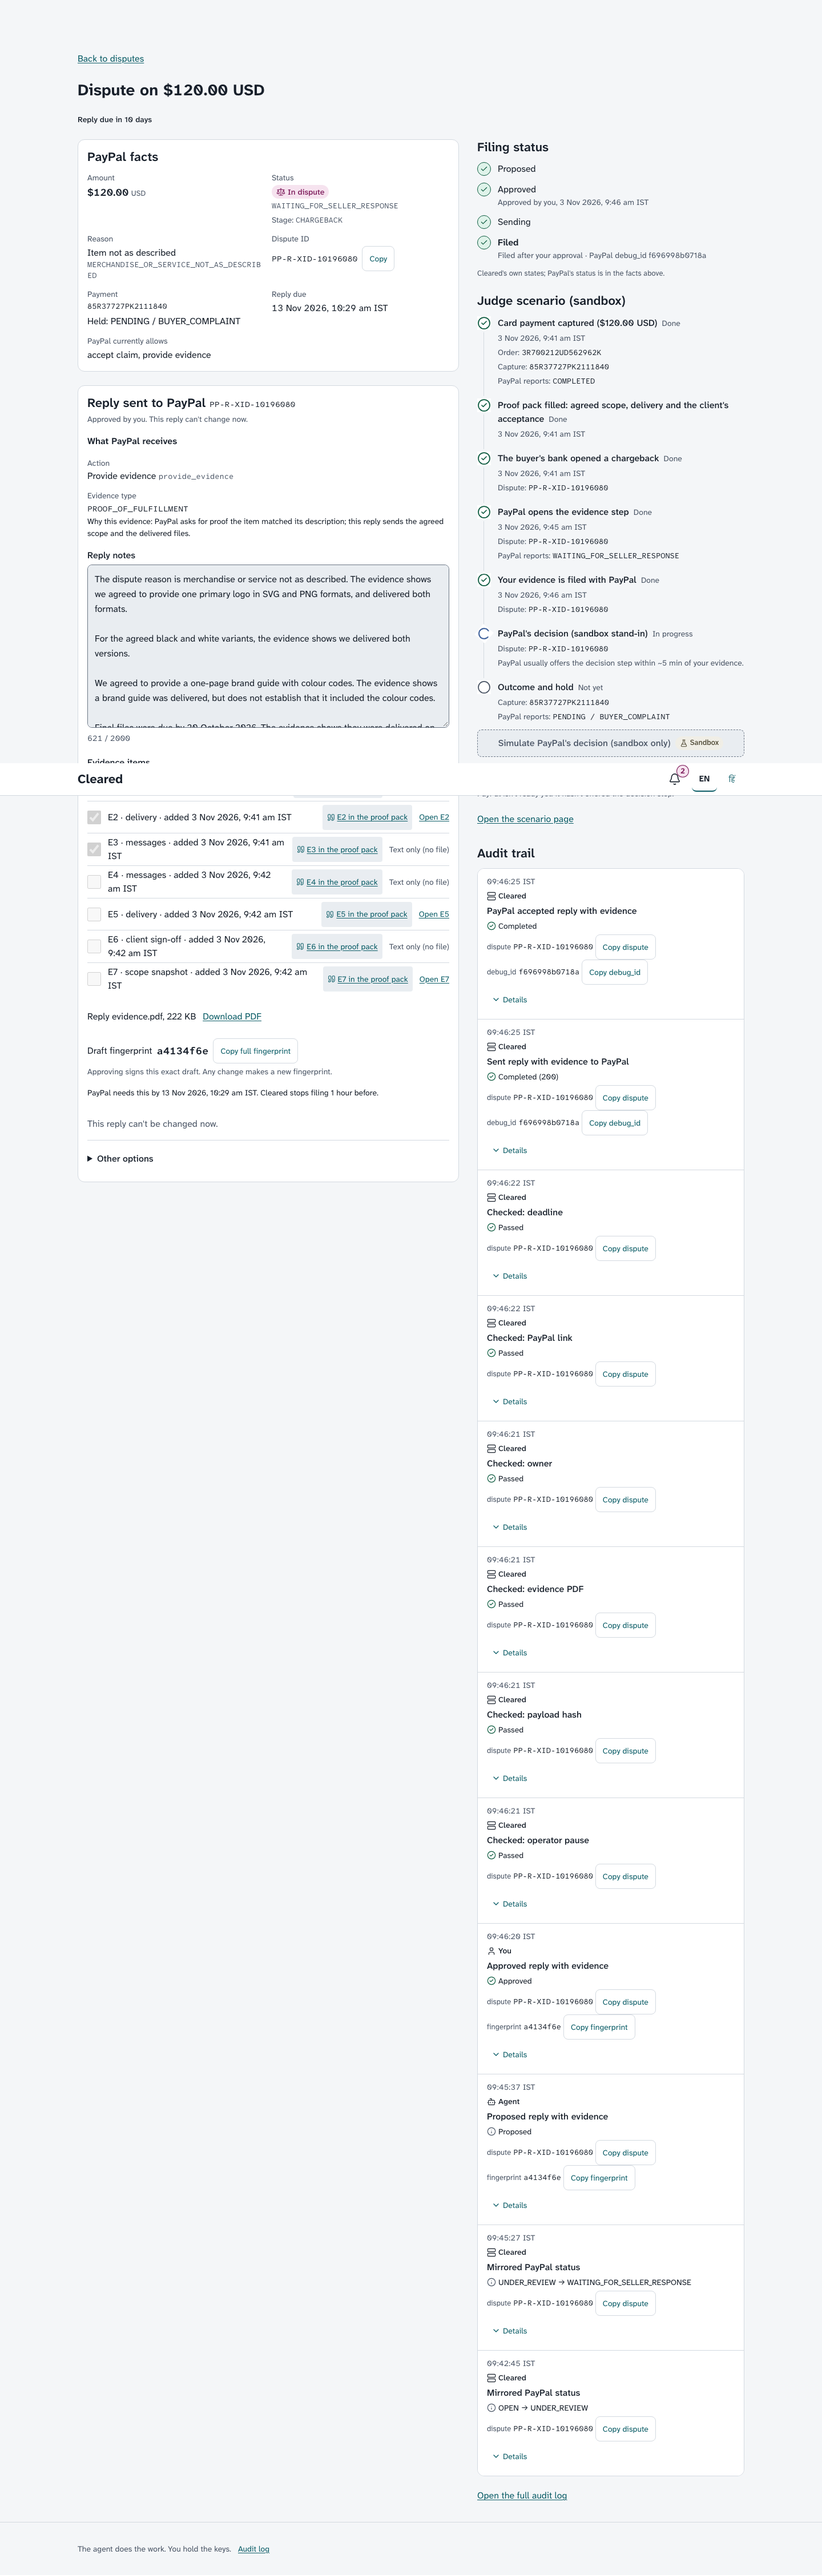
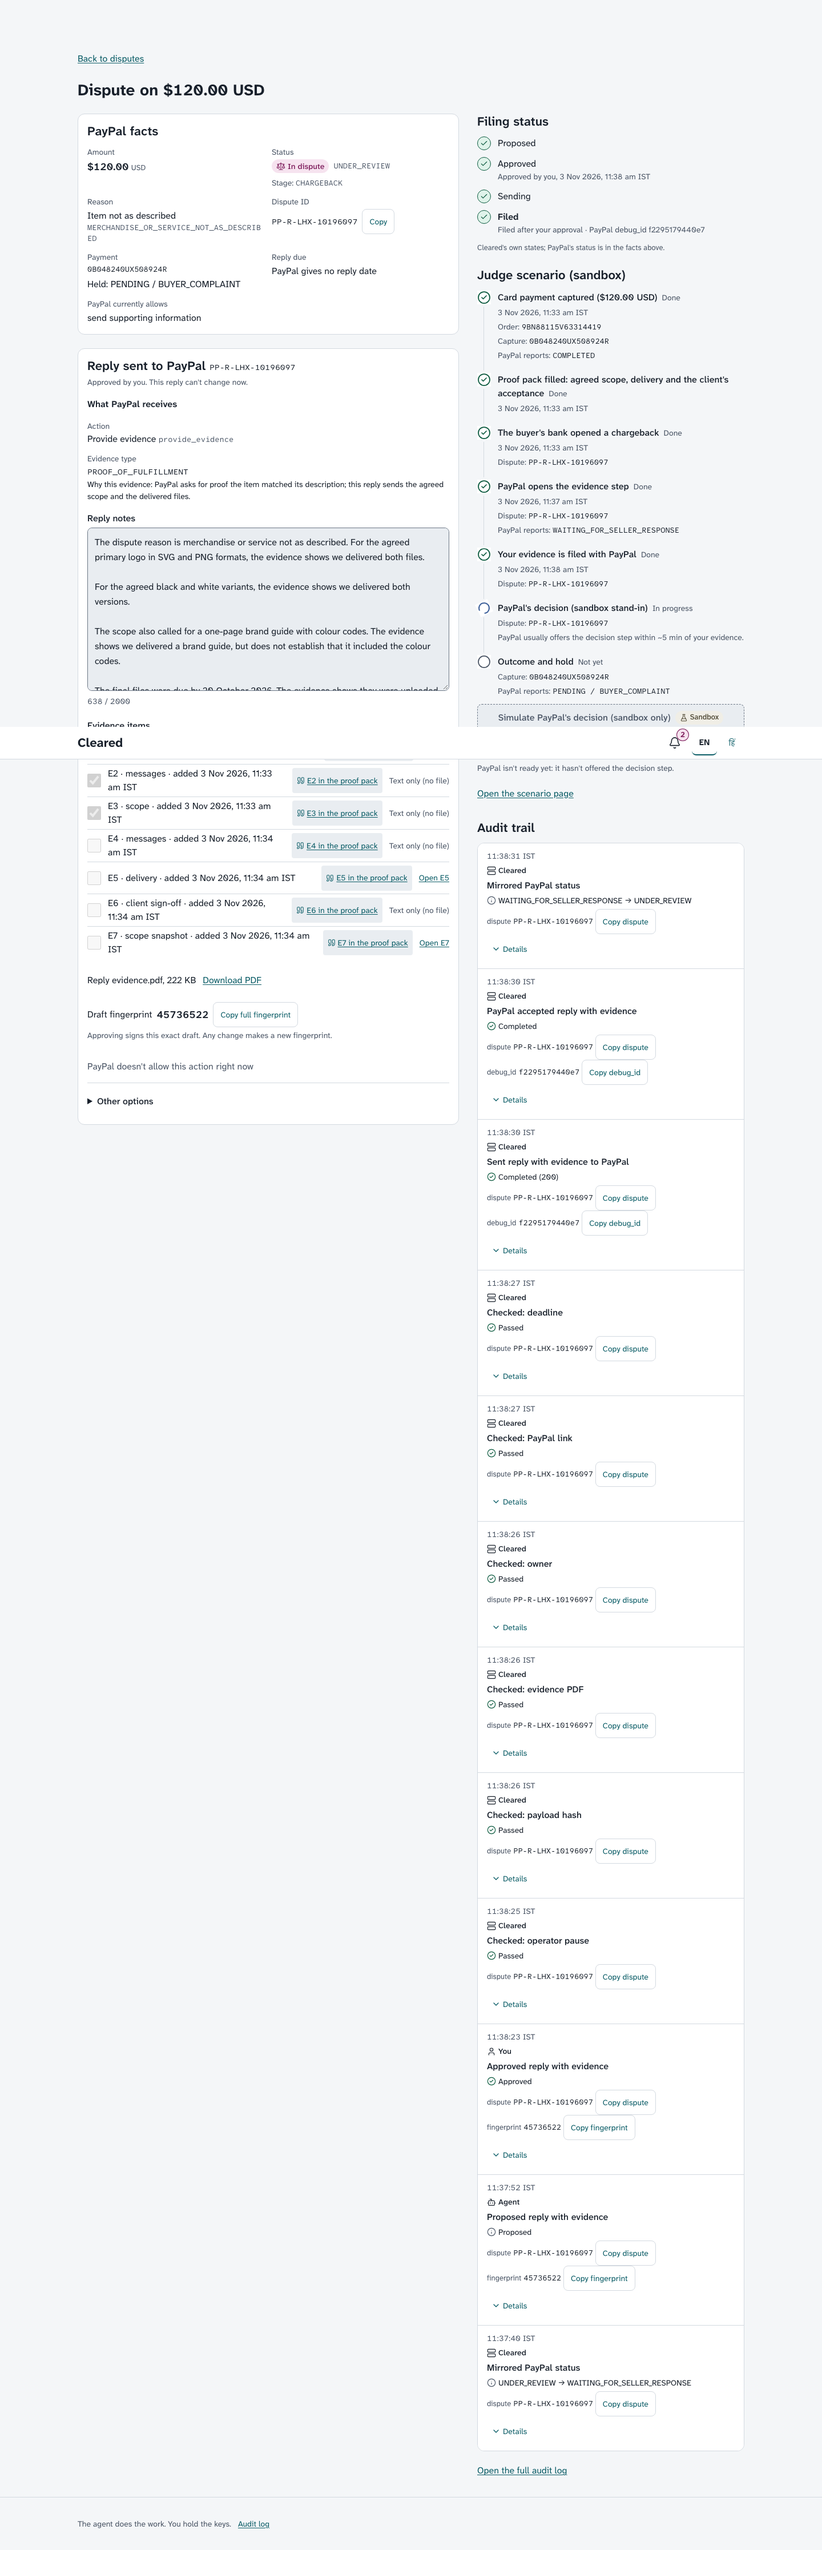
docs(evidence): M3-11 run 2 on c5afc1c, all scenes, pool staging and spend (M3-11)

diff --git a/docs/evidence/m3-storyboard-dry-run.md b/docs/evidence/m3-storyboard-dry-run.md
@@ -1,118 +1,175 @@
 # M3-11 · Storyboard dry run on production: evidence
 
-Run 2026-11-03 04:11–04:28 UTC against **production** (`https://cleared-web-gd1b.onrender.com`, Render,
-Oregon) with `apps/web/e2e/storyboard.spec.ts` (deployed mode: no local server, no stub, no credential in the
-test). Production at run time: **web on `1463670`**, **worker on `f93f88d`**. The web build of `f93f88d`
-(#127, cash calendar) fails on Render (see scene 4). Every PayPal call ran on the **PayPal sandbox**. All
-personal data is synthetic: the seller is an anonymous "Try as demo seller" workspace, the client is the
-scenario's "Northwind Tea Co." and the designer is "Meera Studio" (`fixtures/scenario/`). The ids below are
-sandbox ids. No secret values appear here.
+Two live runs of `apps/web/e2e/storyboard.spec.ts` against **production**
+(`https://cleared-web-gd1b.onrender.com`, Render, Oregon), in deployed mode: no local server, no stub,
+no credential in the test.
+- **Run 1** was on 2026-11-03 at 04:11–04:28 UTC, with web on `1463670` and worker on `f93f88d`.
+- **Run 2** was at 06:03–06:18 UTC, with web and worker both on **`c5afc1c`**. That build includes #129 (the
+  web build fix) and #130 (the seller's goods/service declaration, option A).
 
-| | |
+Run 2 is the run of record below. Run 1 is summarised at the end.
+
+Every PayPal call ran on the **PayPal sandbox**. All personal data is synthetic:
+- the seller is an anonymous "Try as demo seller" workspace;
+- the client is "Northwind Tea Co." and the designer is "Meera Studio", both from the scenario's
+  `fixtures/scenario/`;
+- the review-hold payment was approved by the sandbox buyer account (P-52).
+
+The ids are sandbox ids. No secret values appear here.
+
+## Staging (run 2)
+
+| Step | When (UTC) | Result |
+|---|---|---|
+| Video-pool order created on production (`render ssh` on cleared-worker: `node apps/worker/src/cli/pool.ts create --count 1 --purpose video`). A read-only check beforehand found 0 pool rows | 05:52:11 | order `6AE7350594037204V`, 64.00 USD; PayPal create-order 200, `debug_id f282016ddfb16` |
+| The owner approved the order as the sandbox buyer (P-52) | before 05:55 | |
+| `pool.ts capture` | 05:55:13 | capture POST **201**, `debug_id f230955f1c12e`; capture `63R756703X9265145` **`PENDING / PENDING_REVIEW`** (re-read by GET 200, `debug_id f317634bace8c`); row `held` |
+| `pool.ts status` | 05:55 | `video held 6AE7350594037204V 63R756703X9265145 PENDING/PENDING_REVIEW`, expected release `~2026-11-04T05:55Z` (estimated, rule `payment_review`) |
+| Web and worker live on `c5afc1c`; `/readyz` `{"ok":true,…}` | 06:03 | |
+| Recording workspace created by the spec ("Try as demo seller") | 06:03:35 | `7d178710-e78a-4de8-b437-486e2b346e58` |
+| `pool.ts assign --workspace 7d178710…` | ~06:04 | "assigned capture 63R756703X9265145 (order 6AE7350594037204V)" |
+| Chargeback (M2-10 scenario, on the $120 card capture) | 06:04 | staged live in the run, not 20 min ahead |
+
+| Run 2 ids | |
 |---|---|
-| workspace (demo) | `7228ebdd-647d-45bb-ac6b-e9b46011f463` |
-| scenario run | `efa4a827-9550-40b3-8a5b-e0a4305eeebd` |
-| order | `3R700212UD562962K` |
-| capture ($120.00 USD, card) | `85R37727PK2111840` |
-| payment | `eb5c3dc3-9451-49f3-bcac-ee91a898ff95` |
-| dispute | `PP-R-XID-10196080` (reason `MERCHANDISE_OR_SERVICE_NOT_AS_DESCRIBED`, stage `CHARGEBACK`) |
-| evidence filing | `provide_evidence`, fingerprint `a4134f6e`, PayPal **200**, `debug_id f696998b0718a` |
+| scenario run | `1b3d150a-cece-4eb6-bb01-c93717178bd2` |
+| $120 card capture | `0B048240UX508924R` (payment `02a856ac-56ef-4317-9bba-ce75244ddc1c`) |
+| dispute | `PP-R-LHX-10196097` (stage `CHARGEBACK`) |
+| $64 review-hold capture | `63R756703X9265145` (order `6AE7350594037204V`) |
+| tracking (`add_tracking`, IND_DELHIVERY `CLRM311001`, synthetic) | PayPal **201**, `debug_id ca5492f996d63` |
+| evidence filing (`provide_evidence`) | PayPal **200**, `debug_id f2295179440e7` |
 
-## Scenes
+## Scenes (run 2)
 
-The storyboard column is PROJECT.md §2. "Wall time" is the measured time of the scene in this run. "Source"
-is what moved the state Cleared shows: a verified PayPal webhook, or Cleared's own poll / re-fetch.
+The storyboard column is PROJECT.md §2. "Wall time" is what the scene took in this run. "Source" is what
+moved the state Cleared shows: a verified PayPal webhook, or Cleared's own poll / re-fetch.
 
 | Scene | Storyboard | Result | Wall time | Sandbox ids | Source of each state change |
 |---|---|---|---|---|---|
-| 1 Proof pack: payment arrives, chat + files, AI scope check with quotes, client acknowledgement, scope snapshot | 0:20–0:45 (25 s) | pass | 91 s | order `3R700212UD562962K`, capture `85R37727PK2111840` | payment: **poll** (scenario capture sync, 04:11:44; the `PAYMENT.CAPTURE.COMPLETED` webhook followed at 04:11:46 and was processed idempotently); pack, check, ack, snapshot: Cleared's own jobs |
-| 2a Real `PENDING_REVIEW` hold, explained in Hindi with estimate + source | 0:45–1:05 (20 s) | fail | not run | none: the production review-hold pool has 0 rows | n/a. Blocked: no sanctioned route to create the pool on production (BL-01 6575469150; owner action on #43) |
-| 2b Route advice + tier badge on a goods order | (same window) | fail | not run | none | n/a. Blocked: no product path makes a goods hold (BL-01 6570499264; owner decision on #43) |
-| 3 Dispute lands → `PENDING/BUYER_COMPLAINT`, bell, draft, approval, filing, labelled sandbox decision, `RESOLVED_WITH_PAYOUT`, `COMPLETED` | 1:05–1:50 (45 s) | pass | 14 min 39 s | dispute `PP-R-XID-10196080`, capture `85R37727PK2111840`, `debug_id f696998b0718a` | dispute + hold: **webhook** `CUSTOMER.DISPUTE.CREATED` (04:15:04) → capture re-fetch → `PENDING/BUYER_COMPLAINT` (payment `source = webhook`); dispute steps: **webhook** `CUSTOMER.DISPUTE.UPDATED` ×3; release to `COMPLETED`: **poll** (scenario poll, 04:27:21), then `CUSTOMER.DISPUTE.RESOLVED` webhook (04:27:34) |
-| 3 email alert | (same) | fail | n/a | n/a | in-app bell only: demo workspaces get no email by design (M3-08 handoff); an allowlisted owner workspace is needed to show the email |
-| 4a Audit log: agent proposal, seller approval | 1:50–2:15 (25 s) | pass | 2 s | `debug_id f696998b0718a` on the "sent" row | Cleared's audit rows |
-| 4b Cash calendar: releases and deadlines | (same) | fail | 60 s (timeout) | n/a | `/en/calendar` is **404** on production: the web build of #127 fails on Render (BL-01 6595246110) |
-| 5 Guided Completed step on a service payment | n/a | fail | not run | none | Blocked: no product path makes a service hold (BL-01 6570499264). The run stopped at 4b, but no service hold existed in the workspace |
+| 1 Proof pack: payment arrives, chat + files, AI scope check with quotes, client acknowledgement, scope snapshot | 0:20–0:45 (25 s) | pass | 82 s | capture `0B048240UX508924R` | payment: **poll** (scenario capture sync); pack, check, ack, snapshot: Cleared's own jobs |
+| 2a Real `PENDING / PENDING_REVIEW` hold, explained in Hindi with the estimate and its source | 0:45–1:05 (20 s) | pass | 9 s | capture `63R756703X9265145` | hold: **webhook** (payment `source = webhook` from the pool capture). On production the payment row reads `PENDING / PENDING_REVIEW` |
+| 2b Goods: the seller declares "goods" (labelled as her answer), route advice, File tracking → approve → filed | (same window) | pass | 12 s | tracking `debug_id ca5492f996d63` | the declaration is Cleared's own field; tracking is a seller-approved PayPal write (201). PayPal's estimate stays `payment_review` ("Within 24 hours; up to 3 business days") |
+| 3a Dispute lands → `PENDING/BUYER_COMPLAINT`, bell, draft, approval, evidence filed | 1:05–1:50 (45 s) | pass | 3 min 19 s | dispute `PP-R-LHX-10196097`, `debug_id f2295179440e7` | hold: **webhook** `CUSTOMER.DISPUTE.CREATED` → capture re-fetch (payment `source = webhook`) |
+| 3b Labelled "Simulate PayPal's decision (sandbox only)" → `RESOLVED_WITH_PAYOUT`, capture `COMPLETED`, both in the UI | (same) | pass | 8 min 52 s | dispute `PP-R-LHX-10196097`, capture `0B048240UX508924R` | release to `COMPLETED`: **poll** (scenario poll); final payment `source = webhook` |
+| 3 email alert | (same) | fail | n/a | n/a | in-app bell only. Demo workspaces get no email by design (M3-08); showing the email needs an allowlisted owner workspace |
+| 4a Audit log: the agent's proposal, the seller's approval, the sent row with its `debug_id` | 1:50–2:15 (25 s) | pass | 2 s | `debug_id f2295179440e7` | Cleared's audit rows |
+| 4b Cash calendar (Bryntum month view, rendered in Chromium) + table | (same) | pass | 2 s | n/a | `released` $120 (PayPal's date) and $64 `estimated` (Source) rows. Third-party hosts on the production calendar page: **none** (no GTM, no bryntum.com) |
+| 5 Guided Completed: the seller declares the $120 logo payment a service and confirms Completed | n/a | pass | 6 s | hold on capture `0B048240UX508924R` (`BUYER_COMPLAINT`) | Cleared's own record. "Saved. Your estimate hasn't changed."; PayPal's state and estimate unchanged |
 
-### Scene 1 detail (wall clock from the "Run the dispute scenario" click)
+**The one assertion that failed in run 2.** It was a soft check in scene 3a: the spec expected one
+`dispute_deadline` row in the calendar while the case was open, and found **0**. Production SQL shows that
+`seller_response_due_date` is null on both sandbox chargebacks (`PP-R-LHX-10196097`, `PP-R-XID-10196080`),
+and the dispute page says "PayPal gives no reply date". So the calendar was right not to invent a deadline;
+the spec's expectation was wrong.
+- The spec now expects a deadline row exactly when PayPal sent a due date (`detail.dispute.dueDate`), so 0 here.
+- That fix came after run 2. It hasn't run live yet: the demo-workspace quota for the day (3 per IP) is used up.
+- Everything else in run 2 passed, so the Playwright verdict was **1 failed** on that check alone.
 
-| Step | At | + |
+### Scene timings (run 2, UTC)
+
+| Mark | At | |
 |---|---|---|
-| scenario started | 04:11:30 | 0 s |
-| capture `COMPLETED` (real sandbox order + capture, `custom_id` = workspace) | 04:11:37 | 7 s |
-| pack seeded through the M2-01 intake (scope chat, delivery PDF, acceptance message) | 04:11:39 | 9 s |
-| payment visible in the dashboard | 04:11:44 | 14 s |
-| seller pasted a client message + uploaded a screenshot on the pack page; AI check finished: 6 lines (`met` ×3, `unverifiable` ×3), 11 verbatim citations | 04:12:35 | 65 s |
-| client confirmed the acknowledgement link from a second browser (no session) | 04:12:43 | 73 s |
-| scope snapshot PDF created and downloaded (`scope-snapshot-<12 hex>.pdf`) | 04:12:48 | 78 s |
+| start / workspace | 06:03:34 | |
+| scenario started → payment visible | 06:03:46 → 06:04:00 | 14 s |
+| AI scope check done (6 lines: `met` ×3, `unverifiable` ×3; 11 verbatim citations) | 06:04:44 | 44 s after the payment |
+| client confirmed from a second browser | 06:04:51 | |
+| scope snapshot downloaded | 06:04:57 | |
+| review hold in the inbox | 06:04:57 | |
+| HI explanation (`lang="hi"`, rule `payment_review`, https source link) | 06:05:06 | |
+| tracking approved → filed (201) | 06:05:11 → 06:05:18 | 7 s |
+| capture `PENDING / BUYER_COMPLAINT`, dispute mirrored | 06:07:11 | |
+| agent draft proposed | 06:08:17 | 66 s after |
+| seller approved → evidence filed (200) | 06:08:22 → 06:08:37 | 15 s |
+| service declared + Completed confirmed | 06:08:43 | |
+| decision control enabled and clicked | 06:12:07 | 3 min 30 s after filing |
+| dispute `RESOLVED` / `RESOLVED_WITH_PAYOUT` | 06:17:30 | 5 min 22 s after the decision |
+| "Hold released: payment is Completed" | 06:17:31 | |
+| audit log, calendar | 06:17:36, 06:17:39 | |
 
-### Scene 3 detail
-
-| Step | At | + from chargeback |
-|---|---|---|
-| sandbox chargeback created | 04:11:42 | 0 |
-| `CUSTOMER.DISPUTE.CREATED` webhook; capture re-fetched as `PENDING / BUYER_COMPLAINT` | 04:15:04 | 3 min 22 s |
-| bell: "Notifications, N unread" (dispute_opened), checked right after the dispute was mirrored | 04:15:09+ | ~3 min 27 s |
-| evidence step (`WAITING_FOR_SELLER_RESPONSE`) | 04:15:29 | 3 min 47 s |
-| agent draft proposed (`provide_evidence`, `PROOF_OF_FULFILLMENT`, notes 621/2000, one compiled PDF 222 KB) | 04:16:14 | 4 min 32 s |
-| seller approved (fingerprint `a4134f6e` matched); six checks passed | 04:16:19 | 4 min 37 s |
-| evidence filed: PayPal 200, `debug_id f696998b0718a` | 04:16:26 | 4 min 44 s |
-| "Simulate PayPal's decision (sandbox only)" enabled and clicked | 04:20:23 | 8 min 41 s |
-| dispute `RESOLVED` / `RESOLVED_WITH_PAYOUT` / `REPRESENTED_BY_PAYPAL`; capture `COMPLETED` | 04:27:21–04:27:23 | 15 min 39 s |
-| "Hold released: payment is Completed" on the scenario page | 04:27:25 | 15 min 43 s |
-
-The outcome reads "Resolved; you keep the money (PayPal covered the case)". No page contains "won".
+The UI reads "Resolved; you keep the money (PayPal covered the case)". No page contains "won".
 
 ## AC checks on production (read-only SQL, `cleared-prod-select`)
 
 ```
-executions  (workspace 7228ebdd…): 2026-11-03 04:16:20Z  paypal_status 200  paypal_debug_id f696998b0718a  attempt 1
-proposed_actions: provide_evidence  succeeded  a4134f6e
-disputes: PP-R-XID-10196080  RESOLVED  {"outcome_code":"RESOLVED_WITH_PAYOUT","outcome_reason":"REPRESENTED_BY_PAYPAL",…}
-payments: 85R37727PK2111840  COMPLETED  source webhook
-review_hold_pool: 0 rows
+executions (workspace 7d178710…):
+  2026-11-03 06:05:12Z  add_tracking      201  ca5492f996d63
+  2026-11-03 06:08:25Z  provide_evidence  200  f2295179440e7
+payments:  63R756703X9265145  PENDING    PENDING_REVIEW  (poll at read time)
+           0B048240UX508924R  COMPLETED                  webhook
+holds:     review   PENDING_REVIEW   filed     seller_declared_kind goods
+           dispute  BUYER_COMPLAINT  released  seller_declared_kind service
+disputes:  PP-R-LHX-10196097  RESOLVED  CHARGEBACK  seller_response_due_date null
 ```
 
-There is no tracking execution: tracking is offered only on a goods hold, and no product path makes one
-(BL-01 6570499264). The tracking write itself is proven on the sandbox by M3-03 (201, `debug_id
-f81989929c083`), not on production.
+The pool CLI's capture GET (`/v2/payments/captures/:id`, 200, `debug_id f317634bace8c`) returned
+`PENDING / PENDING_REVIEW` for `63R756703X9265145` at 05:55:13Z. That is the AC 2 check; it ran on
+production's own worker.
 
 ## Spend
 
-OpenAI, from `agent_runs` of the run's workspace (the API's token counts, priced by the app): `check_scope` ×2
-$0.0172, `draft_dispute` ×2 $0.0082, `extract` ×5 $0.0011, `explain_hold` ×1 $0.0001. **Total $0.0267.**
-PayPal sandbox: $0.
+OpenAI cost per run, from `agent_runs` (the API's token counts, priced by the app):
+
+| Task | Run 1 | Run 2 |
+|---|---|---|
+| `check_scope` (×2) | $0.0172 | $0.0162 |
+| `draft_dispute` (×2) | $0.0082 | $0.0081 |
+| `extract` (×5) | $0.0011 | $0.0011 |
+| `explain_hold` | $0.0001 (×1) | $0.0003 (×2) |
+| **Total** | **$0.0267** | **$0.0257** |
+
+Both runs together: **$0.0524** of the $0.50 budget. PayPal sandbox: $0.
 
 ## Deltas for M5-02 (timings against the < 3:00 cut)
 
-- **Scene 1 (91 s against 25 s):** the AI check takes ~50 s. Record the paste/upload live and cut to the
-  checked verdicts, or stage the payment a few minutes ahead.
-- **Scene 3 (14 min 39 s against 45 s):** as §2 plans, stage the chargeback ~20 min ahead. On camera, show
-  the held row and bell (the dispute webhook took 3 min 22 s), the approval (filing took 7 s), then cut to
-  the decision. The decision to `RESOLVED` took 7 min in this run.
-- **Copy:** the UI reads "Resolved; you keep the money (PayPal covered the case)". The storyboard line
-  "Resolved: she keeps the $120 (PayPal covered the case)" is the voice-over, not the UI string.
-- **Approval:** in this dry run the script clicked Approve as the synthetic demo seller (as M2-10's judge
-  spec does). In the recording, the owner clicks it on camera.
-- **Email alert:** a demo workspace gets no email. Record scene 3 in the owner's allowlisted workspace to
-  show the email.
-- Scenes 2, 4b and 5 have no timing yet: they are blocked (above).
+- **Scene 1 (82 s against 25 s):** the AI check takes ~45 s. Cut from the paste/upload to the checked verdicts.
+- **Scene 2 (21 s against 20 s):** fits as-is, the review hold and HI explanation plus the goods declaration
+  and tracking. The pool hold must be under 20 h old to assign; this one was captured at 05:55Z, releases
+  ~24 h later (estimated), and must be assigned by ~2026-11-04 01:55Z.
+- **Scene 3 (12 min 11 s against 45 s):** stage the chargeback ~20 min ahead, as §2 says. The dispute
+  webhook took ~3 min, the draft about 1 min, the filing 15 s, the decision control 3.5 min, and the
+  resolution 5.4 min.
+- **Scene 4:** fits (4 s). The Bryntum trial watermark shows on the calendar; P-38 is deferred to M5-SUBMIT.
+- **Copy:** the UI string is "Resolved; you keep the money (PayPal covered the case)". The storyboard's
+  "she keeps the $120" is voice-over only.
+- **Approval:** the spec clicks Approve as the synthetic demo seller (as M2-10's judge spec does). In the
+  recording, the owner clicks it on camera.
+- **Email alert:** record scene 3 in the owner's allowlisted workspace to show it.
+- **Scene 5:** declaring the hold a service and confirming Completed works only while the hold is open, i.e.
+  before the decision. In the video, show it between filing and the decision.
 
-## Screenshots
+## Screenshots (run 2)
 
-- `m3-storyboard-s1-pack-verdicts.png`: the pack with the verdicts, quotes and the seller's added items
+- `m3-storyboard-s1-pack-verdicts.png`: the pack, verdicts and quotes, and the seller's added items
 - `m3-storyboard-s1-client-ack.png`: the client's confirmation in the second browser
+- `m3-storyboard-s2-hi-hold-detail.png`: the real `PENDING_REVIEW` hold, AI explanation in Hindi, estimate and sources
+- `m3-storyboard-s2-goods-route-advice.png`: "You marked this as goods", route advice, the tracking card
+- `m3-storyboard-s2-tracking-filed.png`: tracking filed with PayPal's `debug_id`; PayPal's estimate unchanged
 - `m3-storyboard-s3-evidence-filed.png`: the filing status with PayPal's `debug_id`
 - `m3-storyboard-s3-dispute-resolved.png`: the resolved dispute, the outcome and the audit trail
-- `m3-storyboard-s3-scenario-resolved.png`: the scenario timeline with the hold released
-- `m3-storyboard-s4-audit.png`: the audit log (agent proposal, seller approval, sent with `debug_id`)
+- `m3-storyboard-s3-scenario-resolved.png`: the scenario timeline, hold released
+- `m3-storyboard-s4-audit.png`: the audit log
+- `m3-storyboard-s4-calendar.png`: the cash calendar month view and table
+- `m3-storyboard-s5-completed-done.png`: "You marked this as a service", Completed confirmed, the estimate unchanged
 
-## Defects and blockers filed
+## Run 1 (superseded)
+
+Run 1 was on 04:11–04:28 UTC with web on `1463670`. **Scenes 1, 3 and 4a passed:**
+- dispute `PP-R-XID-10196080` resolved as `RESOLVED_WITH_PAYOUT`;
+- capture `85R37727PK2111840` went to `COMPLETED`;
+- the filing returned 200 with `debug_id f696998b0718a`.
+
+**Scenes 2, 4b and 5 failed on blockers that have since cleared:**
+- no production pool;
+- no goods/service path (fixed by #130);
+- the web build of #127 failed on Render (BL-01 6595246110, fixed by #129).
+
+## Defects and observations filed
 
 | What | Where |
 |---|---|
-| No product path makes a goods or service hold (scenes 2b, 5; tracking half of AC 4) | BL-01 6570499264 (owner decision, options on #43) |
-| No production review-hold pool, and no sanctioned route for the build to create one (scene 2a, AC 2) | BL-01 6575469150 (owner action on #43) |
-| Render web build of #127 fails (scene 4b; blocks every deploy of web) | BL-01 6595246110, blocker on #37 |
+| No product path made a goods or service hold | BL-01 6570499264, fixed by #130 (option A); proven live in scenes 2b and 5 |
+| No production review-hold pool | BL-01 6575469150: pool created over `render ssh` (staging above) |
+| Render web build of #127 failed | BL-01 6595246110, fixed by #129 |
 | The draft leaves the seller's later items unselected, including the client's sign-off and the scope snapshot | BL-01 6595501766 (owner M3-06) |
-| "Thanks, Northwind Tea Co.. Your confirmation is recorded.": double full stop when the client's name ends in "." | BL-01 6595502129 (owner M4-03) |
+| "Thanks, Northwind Tea Co.. Your confirmation is recorded.": a double full stop when the client's name ends in "." | BL-01 6595502129 (owner M4-03) |
+| The review hold's EN explanation showed the labelled standard text ("no AI summary right now"); its HI one was AI | observation only: the fallback is labelled as designed (M3-02) |
